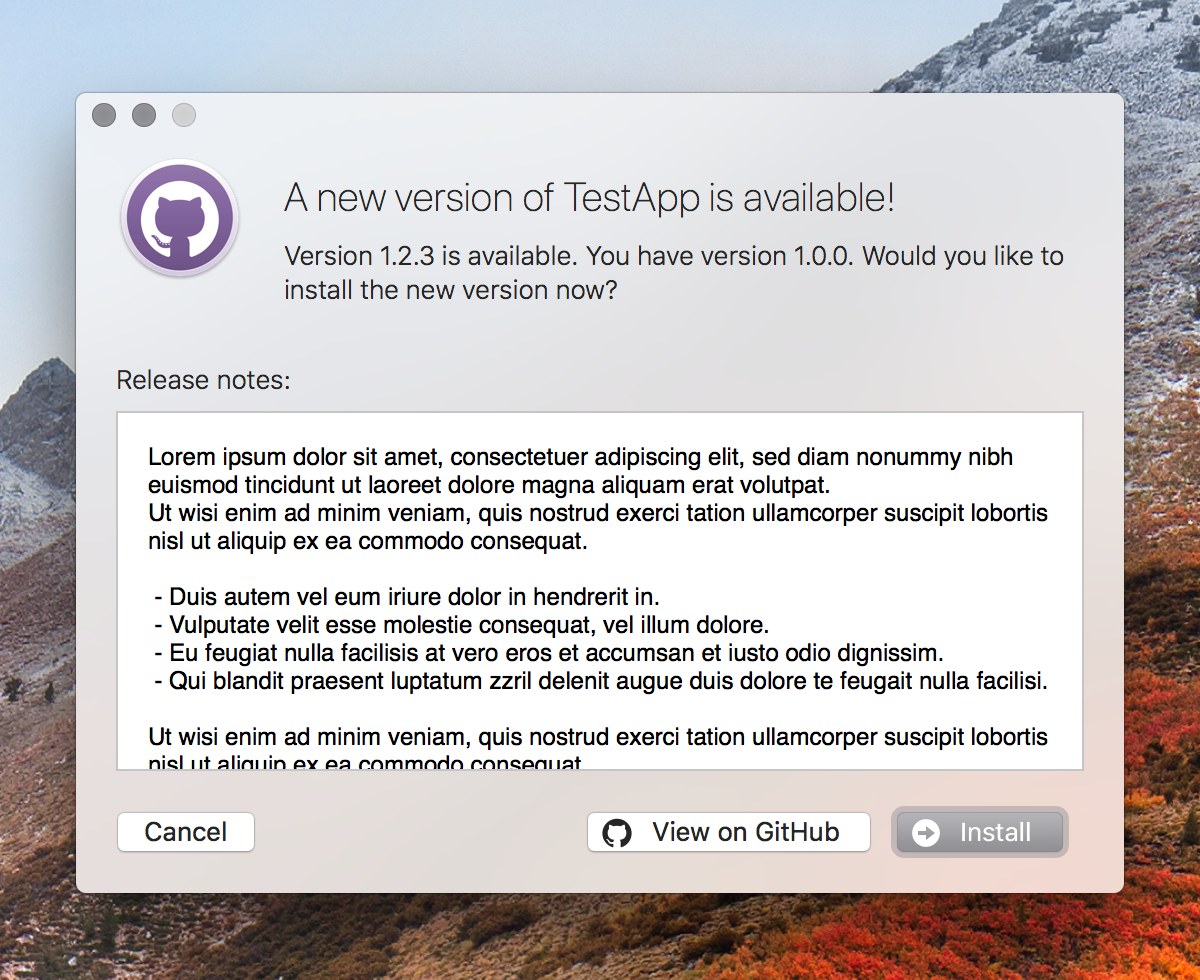
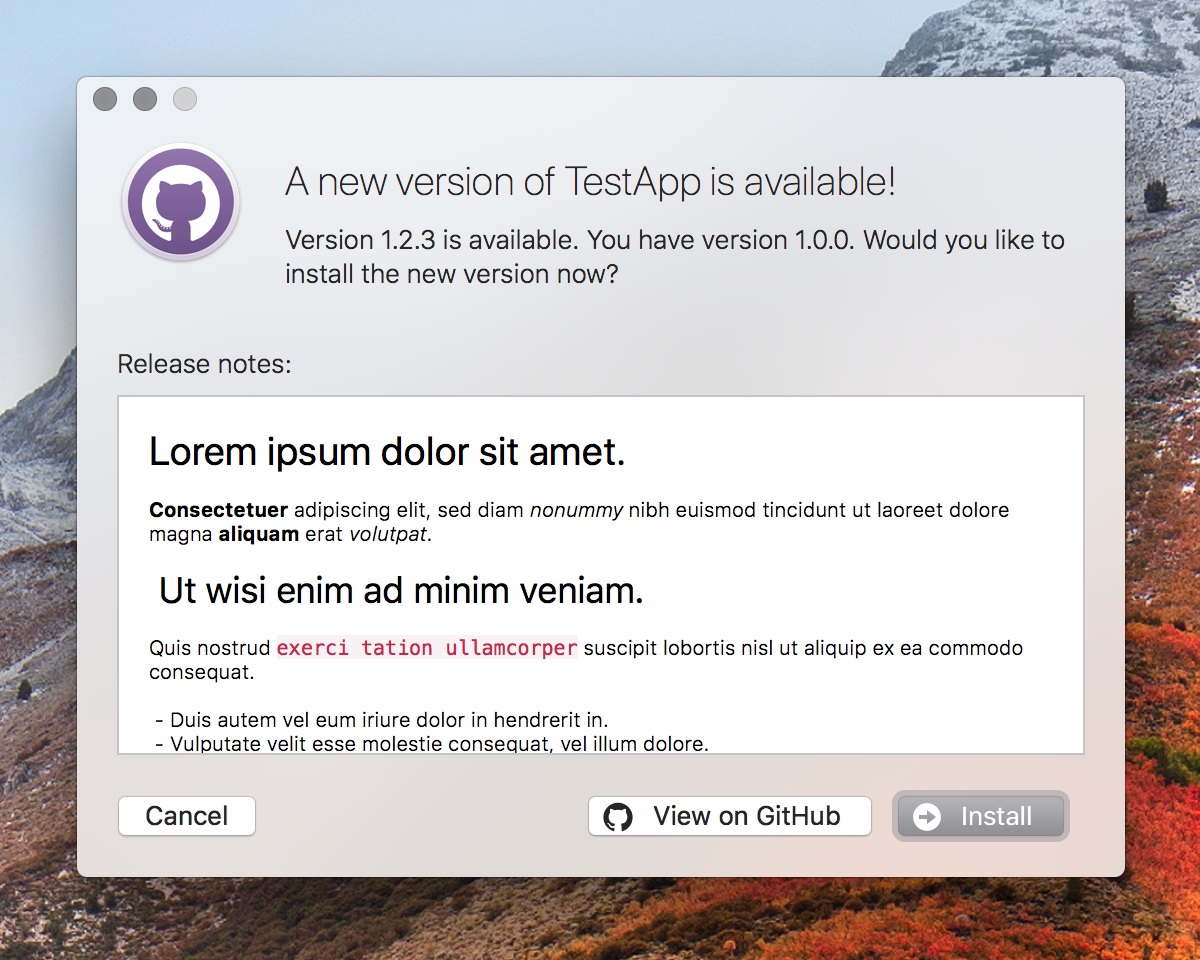
Basic support for Mardown release notes.

diff --git a/GitHubUpdates/NSAttributedString+GitHubUpdates.m b/GitHubUpdates/NSAttributedString+GitHubUpdates.m
@@ -1,0 +1,140 @@
+/*******************************************************************************
+ * The MIT License (MIT)
+ * 
+ * Copyright (c) 2017 Jean-David Gadina - www.xs-labs.com
+ * 
+ * Permission is hereby granted, free of charge, to any person obtaining a copy
+ * of this software and associated documentation files (the "Software"), to deal
+ * in the Software without restriction, including without limitation the rights
+ * to use, copy, modify, merge, publish, distribute, sublicense, and/or sell
+ * copies of the Software, and to permit persons to whom the Software is
+ * furnished to do so, subject to the following conditions:
+ * 
+ * The above copyright notice and this permission notice shall be included in
+ * all copies or substantial portions of the Software.
+ * 
+ * THE SOFTWARE IS PROVIDED "AS IS", WITHOUT WARRANTY OF ANY KIND, EXPRESS OR
+ * IMPLIED, INCLUDING BUT NOT LIMITED TO THE WARRANTIES OF MERCHANTABILITY,
+ * FITNESS FOR A PARTICULAR PURPOSE AND NONINFRINGEMENT. IN NO EVENT SHALL THE
+ * AUTHORS OR COPYRIGHT HOLDERS BE LIABLE FOR ANY CLAIM, DAMAGES OR OTHER
+ * LIABILITY, WHETHER IN AN ACTION OF CONTRACT, TORT OR OTHERWISE, ARISING FROM,
+ * OUT OF OR IN CONNECTION WITH THE SOFTWARE OR THE USE OR OTHER DEALINGS IN
+ * THE SOFTWARE.
+ ******************************************************************************/
+
+/*!
+ * @file        NSAttributedString+GitHubUpdates.m
+ * @copyright   (c) 2017, Jean-David Gadina - www.xs-labs.com
+ */
+
+#import "NSAttributedString+GitHubUpdates.h"
+#import "NSMutableAttributedString+GitHubUpdates.h"
+
+@interface NSAttributedString( GitHubUpdates_Private )
+
++ ( NSDictionary * )markdownAttributesForRegularText;
++ ( NSDictionary * )markdownAttributesForBoldText;
++ ( NSDictionary * )markdownAttributesForItalicText;
++ ( NSDictionary * )markdownAttributesForCodeText;
++ ( NSDictionary * )markdownAttributesForHeading1;
++ ( NSDictionary * )markdownAttributesForHeading2;
++ ( NSDictionary * )markdownAttributesForHeading3;
++ ( NSDictionary * )markdownAttributesForHeading4;
++ ( NSDictionary * )markdownAttributesForHeading5;
++ ( NSDictionary * )markdownAttributesForHeading6;
+
+@end
+
+@implementation NSAttributedString( GitHubUpdates )
+
++ ( NSAttributedString * )attributedStringFromMarkdownString: ( NSString * )md
+{
+    NSMutableAttributedString * ret;
+    
+    md  = [ md stringByTrimmingCharactersInSet: [ NSCharacterSet newlineCharacterSet ] ];
+    ret = [ [ NSMutableAttributedString alloc ] initWithString: md attributes: [ self markdownAttributesForRegularText ] ];
+    
+    [ ret processMarker: @"**" attributes: [ self markdownAttributesForBoldText ] ];
+    [ ret processMarker: @"__" attributes: [ self markdownAttributesForBoldText ] ];
+    [ ret processMarker: @"*"  attributes: [ self markdownAttributesForItalicText ] ];
+    [ ret processMarker: @"_"  attributes: [ self markdownAttributesForItalicText ] ];
+    [ ret processMarker: @"`"  attributes: [ self markdownAttributesForCodeText ] ];
+    
+    [ ret processLineStart: @"# "      attributes: [ self markdownAttributesForHeading1 ] ];
+    [ ret processLineStart: @"## "     attributes: [ self markdownAttributesForHeading2 ] ];
+    [ ret processLineStart: @"### "    attributes: [ self markdownAttributesForHeading3 ] ];
+    [ ret processLineStart: @"#### "   attributes: [ self markdownAttributesForHeading4 ] ];
+    [ ret processLineStart: @"##### "  attributes: [ self markdownAttributesForHeading5 ] ];
+    [ ret processLineStart: @"###### " attributes: [ self markdownAttributesForHeading6 ] ];
+    
+    return ret;
+}
+
+@end
+
+@implementation NSAttributedString( GitHubUpdates_Private )
+
++ ( NSDictionary * )markdownAttributesForRegularText
+{
+    return @{ NSFontAttributeName : [ NSFont systemFontOfSize: 10 weight: NSFontWeightThin ] };
+}
+
++ ( NSDictionary * )markdownAttributesForBoldText
+{
+    return @{ NSFontAttributeName : [ NSFont systemFontOfSize: 10 weight: NSFontWeightBold ] };
+}
+
++ ( NSDictionary * )markdownAttributesForItalicText
+{
+    NSFont * font;
+    
+    font = [ NSFont systemFontOfSize: 10 weight: NSFontWeightThin ];
+    font = [ [ NSFontManager sharedFontManager ] convertFont: font toHaveTrait: NSItalicFontMask ];
+    
+    return @{ NSFontAttributeName : font };
+}
+
++ ( NSDictionary * )markdownAttributesForCodeText
+{
+    NSFont  * font;
+    NSColor * background;
+    NSColor * foreground;
+    
+    font       = [ NSFont fontWithName: @"Menlo" size: 10 ];
+    background = [ NSColor colorWithDeviceRed: 249.0 / 255.0 green: 242.0 / 255.0 blue: 244.0 / 255.0 alpha: 1.0 ];
+    foreground = [ NSColor colorWithDeviceRed: 199.0 / 255.0 green:  37.0 / 255.0 blue:  78.0 / 255.0 alpha: 1.0 ];
+    
+    return @{ NSFontAttributeName : font, NSBackgroundColorAttributeName : background, NSForegroundColorAttributeName : foreground };
+}
+
++ ( NSDictionary * )markdownAttributesForHeading1
+{
+    return @{ NSFontAttributeName : [ NSFont systemFontOfSize: 20 weight: NSFontWeightRegular ] };
+}
+
++ ( NSDictionary * )markdownAttributesForHeading2
+{
+    return @{ NSFontAttributeName : [ NSFont systemFontOfSize: 18 weight: NSFontWeightRegular ] };
+}
+
++ ( NSDictionary * )markdownAttributesForHeading3
+{
+    return @{ NSFontAttributeName : [ NSFont systemFontOfSize: 16 weight: NSFontWeightRegular ] };
+}
+
++ ( NSDictionary * )markdownAttributesForHeading4
+{
+    return @{ NSFontAttributeName : [ NSFont systemFontOfSize: 14 weight: NSFontWeightRegular ] };
+}
+
++ ( NSDictionary * )markdownAttributesForHeading5
+{
+    return @{ NSFontAttributeName : [ NSFont systemFontOfSize: 12 weight: NSFontWeightRegular ] };
+}
+
++ ( NSDictionary * )markdownAttributesForHeading6
+{
+    return @{ NSFontAttributeName : [ NSFont systemFontOfSize: 10 weight: NSFontWeightRegular ] };
+}
+
+@end

diff --git a/GitHubUpdates/NSMutableAttributedString+GitHubUpdates.m b/GitHubUpdates/NSMutableAttributedString+GitHubUpdates.m
@@ -1,0 +1,102 @@
+/*******************************************************************************
+ * The MIT License (MIT)
+ * 
+ * Copyright (c) 2017 Jean-David Gadina - www.xs-labs.com
+ * 
+ * Permission is hereby granted, free of charge, to any person obtaining a copy
+ * of this software and associated documentation files (the "Software"), to deal
+ * in the Software without restriction, including without limitation the rights
+ * to use, copy, modify, merge, publish, distribute, sublicense, and/or sell
+ * copies of the Software, and to permit persons to whom the Software is
+ * furnished to do so, subject to the following conditions:
+ * 
+ * The above copyright notice and this permission notice shall be included in
+ * all copies or substantial portions of the Software.
+ * 
+ * THE SOFTWARE IS PROVIDED "AS IS", WITHOUT WARRANTY OF ANY KIND, EXPRESS OR
+ * IMPLIED, INCLUDING BUT NOT LIMITED TO THE WARRANTIES OF MERCHANTABILITY,
+ * FITNESS FOR A PARTICULAR PURPOSE AND NONINFRINGEMENT. IN NO EVENT SHALL THE
+ * AUTHORS OR COPYRIGHT HOLDERS BE LIABLE FOR ANY CLAIM, DAMAGES OR OTHER
+ * LIABILITY, WHETHER IN AN ACTION OF CONTRACT, TORT OR OTHERWISE, ARISING FROM,
+ * OUT OF OR IN CONNECTION WITH THE SOFTWARE OR THE USE OR OTHER DEALINGS IN
+ * THE SOFTWARE.
+ ******************************************************************************/
+
+/*!
+ * @file        NSMutableAttributedString+GitHubUpdates.m
+ * @copyright   (c) 2017, Jean-David Gadina - www.xs-labs.com
+ */
+
+#import "NSMutableAttributedString+GitHubUpdates.h"
+
+@implementation NSMutableAttributedString( GitHubUpdates )
+
+- ( void )processMarker: ( NSString * )marker attributes: ( NSDictionary * )attributes
+{
+    NSUInteger start;
+    NSRange    r1;
+    NSRange    r2;
+    
+    start = 0;
+    
+    while( 1 )
+    {
+        r1 = [ self.string rangeOfString: marker options: ( NSStringCompareOptions )0 range: NSMakeRange( start, self.string.length - start ) ];
+
+        if( r1.location == NSNotFound )
+        {
+            break;
+        }
+        
+        r2 = [ self.string rangeOfString: marker options: ( NSStringCompareOptions )0 range: NSMakeRange( r1.location + marker.length, self.string.length - ( r1.location + marker.length )) ];
+        
+        if( r2.location == NSNotFound )
+        {
+            break;
+        }
+        
+        [ self setAttributes: attributes range: NSMakeRange( r1.location, r2.location - r1.location ) ];
+        [ self deleteCharactersInRange: NSMakeRange( r2.location, marker.length ) ];
+        [ self deleteCharactersInRange: NSMakeRange( r1.location, marker.length ) ];
+        
+        start = r2.location + r2.length;
+    }
+}
+
+- ( void )processLineStart: ( NSString * )lineStart attributes: ( NSDictionary * )attributes
+{
+    NSUInteger start;
+    NSRange    r1;
+    NSRange    r2;
+    
+    [ self insertAttributedString: [ [ NSAttributedString alloc ] initWithString: @"\n" ] atIndex: 0 ];
+    
+    start     = 0;
+    lineStart = [ NSString stringWithFormat: @"\n%@", lineStart ];
+    
+    while( 1 )
+    {
+        r1 = [ self.string rangeOfString: lineStart options: ( NSStringCompareOptions )0 range: NSMakeRange( start, self.string.length - start ) ];
+        
+        if( r1.location == NSNotFound )
+        {
+            break;
+        }
+        
+        r2 = [ self.string rangeOfString: @"\n" options: ( NSStringCompareOptions )0 range: NSMakeRange( r1.location + lineStart.length, self.string.length - ( r1.location + lineStart.length )) ];
+        
+        if( r2.location == NSNotFound )
+        {
+            break;
+        }
+        
+        [ self setAttributes: attributes range: NSMakeRange( r1.location, r2.location - r1.location ) ];
+        [ self deleteCharactersInRange: NSMakeRange( r1.location, lineStart.length - 1 ) ];
+        
+        start = r2.location + r2.length;
+    }
+    
+    [ self deleteCharactersInRange: NSMakeRange( 0, 1 ) ];
+}
+
+@end

diff --git a/GitHubUpdates/NSMutableAttributedString+GitHubUpdates.h b/GitHubUpdates/NSMutableAttributedString+GitHubUpdates.h
@@ -1,0 +1,41 @@
+/*******************************************************************************
+ * The MIT License (MIT)
+ * 
+ * Copyright (c) 2017 Jean-David Gadina - www.xs-labs.com
+ * 
+ * Permission is hereby granted, free of charge, to any person obtaining a copy
+ * of this software and associated documentation files (the "Software"), to deal
+ * in the Software without restriction, including without limitation the rights
+ * to use, copy, modify, merge, publish, distribute, sublicense, and/or sell
+ * copies of the Software, and to permit persons to whom the Software is
+ * furnished to do so, subject to the following conditions:
+ * 
+ * The above copyright notice and this permission notice shall be included in
+ * all copies or substantial portions of the Software.
+ * 
+ * THE SOFTWARE IS PROVIDED "AS IS", WITHOUT WARRANTY OF ANY KIND, EXPRESS OR
+ * IMPLIED, INCLUDING BUT NOT LIMITED TO THE WARRANTIES OF MERCHANTABILITY,
+ * FITNESS FOR A PARTICULAR PURPOSE AND NONINFRINGEMENT. IN NO EVENT SHALL THE
+ * AUTHORS OR COPYRIGHT HOLDERS BE LIABLE FOR ANY CLAIM, DAMAGES OR OTHER
+ * LIABILITY, WHETHER IN AN ACTION OF CONTRACT, TORT OR OTHERWISE, ARISING FROM,
+ * OUT OF OR IN CONNECTION WITH THE SOFTWARE OR THE USE OR OTHER DEALINGS IN
+ * THE SOFTWARE.
+ ******************************************************************************/
+
+/*!
+ * @header      NSMutableAttributedString+GitHubUpdates.h
+ * @copyright   (c) 2017, Jean-David Gadina - www.xs-labs.com
+ */
+
+#import <Cocoa/Cocoa.h>
+
+NS_ASSUME_NONNULL_BEGIN
+
+@interface NSMutableAttributedString( GitHubUpdates )
+
+- ( void )processMarker: ( NSString * )marker attributes: ( NSDictionary * )attributes;
+- ( void )processLineStart: ( NSString * )lineStart attributes: ( NSDictionary * )attributes;
+
+@end
+
+NS_ASSUME_NONNULL_END

diff --git a/GitHubUpdates/NSAttributedString+GitHubUpdates.h b/GitHubUpdates/NSAttributedString+GitHubUpdates.h
@@ -1,0 +1,40 @@
+/*******************************************************************************
+ * The MIT License (MIT)
+ * 
+ * Copyright (c) 2017 Jean-David Gadina - www.xs-labs.com
+ * 
+ * Permission is hereby granted, free of charge, to any person obtaining a copy
+ * of this software and associated documentation files (the "Software"), to deal
+ * in the Software without restriction, including without limitation the rights
+ * to use, copy, modify, merge, publish, distribute, sublicense, and/or sell
+ * copies of the Software, and to permit persons to whom the Software is
+ * furnished to do so, subject to the following conditions:
+ * 
+ * The above copyright notice and this permission notice shall be included in
+ * all copies or substantial portions of the Software.
+ * 
+ * THE SOFTWARE IS PROVIDED "AS IS", WITHOUT WARRANTY OF ANY KIND, EXPRESS OR
+ * IMPLIED, INCLUDING BUT NOT LIMITED TO THE WARRANTIES OF MERCHANTABILITY,
+ * FITNESS FOR A PARTICULAR PURPOSE AND NONINFRINGEMENT. IN NO EVENT SHALL THE
+ * AUTHORS OR COPYRIGHT HOLDERS BE LIABLE FOR ANY CLAIM, DAMAGES OR OTHER
+ * LIABILITY, WHETHER IN AN ACTION OF CONTRACT, TORT OR OTHERWISE, ARISING FROM,
+ * OUT OF OR IN CONNECTION WITH THE SOFTWARE OR THE USE OR OTHER DEALINGS IN
+ * THE SOFTWARE.
+ ******************************************************************************/
+
+/*!
+ * @header      NSAttributedString+GitHubUpdates.h
+ * @copyright   (c) 2017, Jean-David Gadina - www.xs-labs.com
+ */
+
+#import <Cocoa/Cocoa.h>
+
+NS_ASSUME_NONNULL_BEGIN
+
+@interface NSAttributedString( GitHubUpdates )
+
++ ( NSAttributedString * )attributedStringFromMarkdownString: ( NSString * )md;
+
+@end
+
+NS_ASSUME_NONNULL_END

diff --git a/GitHubUpdates/GitHubInstallWindowController.m b/GitHubUpdates/GitHubInstallWindowController.m
@@ -34,6 +34,7 @@
 #import "NSError+GitHubUpdates.h"
 #import "NSString+GitHubUpdates.h"
 #import "NSBundle+GitHubUpdates.h"
+#import "NSAttributedString+GitHubUpdates.h"
 
 NS_ASSUME_NONNULL_BEGIN
 
@@ -142,7 +143,7 @@ NS_ASSUME_NONNULL_END
         self.message = [ NSString stringWithFormat: NSLocalizedString( @"Version %@ is available. You have version %@. Would you like to install the new version now?", @"" ), self.githubRelease.tagName, version ];
     }
     
-    self.releaseNotes = [ [ NSAttributedString alloc ] initWithString: self.githubRelease.body attributes: nil ];
+    self.releaseNotes = [ NSAttributedString attributedStringFromMarkdownString: self.githubRelease.body ];
 }
 
 - ( IBAction )install: ( nullable id )sender
